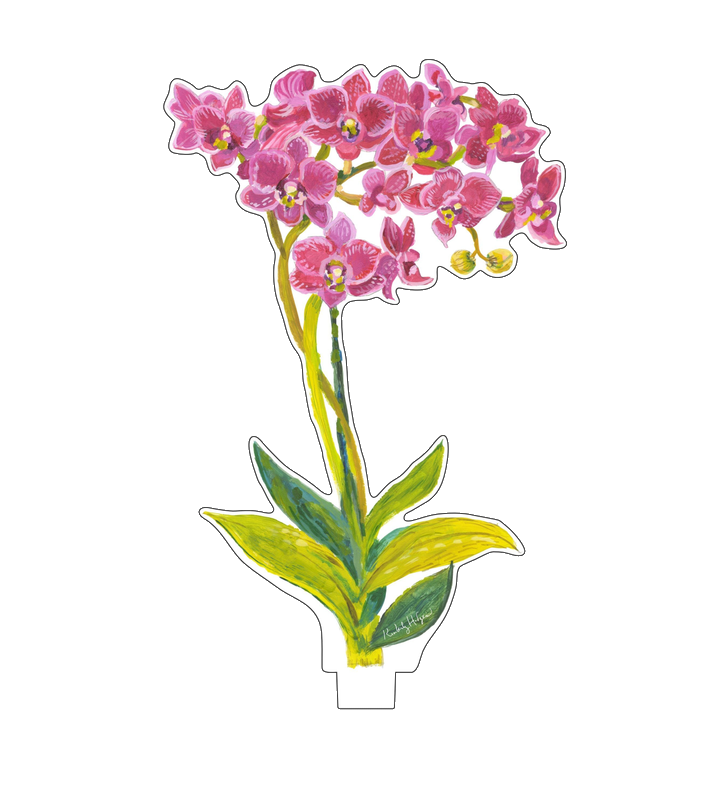
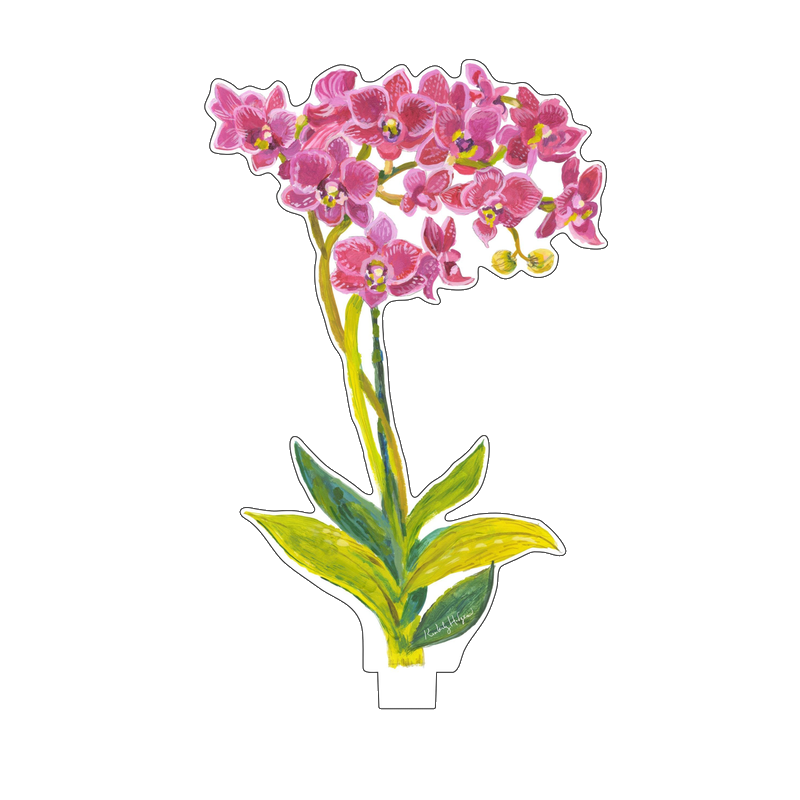
feat: add 9 animals from KHA Animals collection
Bluebird of Happiness, Spring Cardinal, Hummingbird, Indigo Bunting
with Clover, Running Rabbit, Chickadee and Forget Me Nots, Purple
Poppy Mallow Warbler, Chipping Sparrow with Daffodils, and Robin and
Nasturtiums — all with LG/SM variants, proper dimensions, and Shopify
variant IDs. Adds new "Animals" category filter. Re-normalized 7
existing flower images via the processing pipeline.

Changed region(s): [[0.2145, 0.0625, 0.7967, 0.875]]

diff --git a/src/data/catalog.ts b/src/data/catalog.ts
@@ -666,6 +666,133 @@ export const flowers: FlowerProduct[] = [
       cutout: `${CDN}/Cardinal_with_Pine_Cones_LG_KHA-210_e2143269-79e9-44f9-8bdf-7306604e50db.jpg`,
     },
   },
+  // Animals collection
+  {
+    id: "bluebird-of-happiness",
+    name: "Bluebird of Happiness",
+    category: "animal",
+    variants: {
+      lg: { variantId: "52858356728115", price: 37.35 },
+      sm: { variantId: "52858356760883", price: 19.35 },
+    },
+    dimensions: { height: 8.0, width: 4.5 },
+    images: {
+      thumbnail: `${CDN}/KHA-539_Bluebird_of_Happiness_SM.jpg`,
+      cutout: `${CDN}/KHA-539_Bluebird_of_Happiness_SM_3fd11dec-7d6b-4d2c-9740-b0832e3fb798.jpg`,
+    },
+  },
+  {
+    id: "spring-cardinal",
+    name: "Spring Cardinal",
+    category: "animal",
+    variants: {
+      lg: { variantId: "52858356990259", price: 37.35 },
+      sm: { variantId: "52858356957491", price: 19.35 },
+    },
+    dimensions: { height: 8.0, width: 5.75 },
+    images: {
+      thumbnail: `${CDN}/KHA-541_Spring_Cardinal_SM.jpg`,
+      cutout: `${CDN}/KHA-541_Spring_Cardinal_SM_c4d0f76e-863f-4031-8bbe-77e8faa532bf.jpg`,
+    },
+  },
+  {
+    id: "hummingbird",
+    name: "Hummingbird",
+    category: "animal",
+    variants: {
+      lg: { variantId: "52858376585523", price: 37.35 },
+      sm: { variantId: "52858376618291", price: 19.35 },
+    },
+    dimensions: { height: 6.5, width: 8.0 },
+    images: {
+      thumbnail: `${CDN}/KHA-604_Hummingbird_SM.jpg`,
+      cutout: `${CDN}/KHA-605_Hummingbird_LG_e45e6ebe-3cfd-4003-9f15-08503f90f482.jpg`,
+    },
+  },
+  {
+    id: "indigo-bunting-with-clover",
+    name: "Indigo Bunting with Clover",
+    category: "animal",
+    variants: {
+      lg: { variantId: "52858357252403", price: 37.35 },
+      sm: { variantId: "52858357285171", price: 19.35 },
+    },
+    dimensions: { height: 8.0, width: 3.75 },
+    images: {
+      thumbnail: `${CDN}/KHA-535_Indigo_Bunting_with_Clover_SM.jpg`,
+      cutout: `${CDN}/KHA-535_Indigo_Bunting_with_Clover_SM_c18ddb1b-1501-43c6-9e34-8185a7e8b685.jpg`,
+    },
+  },
+  {
+    id: "running-rabbit",
+    name: "Running Rabbit",
+    category: "animal",
+    variants: {
+      lg: { variantId: "52858370326835", price: 37.35 },
+      sm: { variantId: "52858370359603", price: 19.35 },
+    },
+    dimensions: { height: 14.0, width: 7.0 },
+    images: {
+      thumbnail: `${CDN}/KHA-596_Running_Rabbit_SM.jpg`,
+      cutout: `${CDN}/KHA-597_Running_Rabbit_LG_0e71fe30-1098-40c6-83bf-5d325ebaa48c.jpg`,
+    },
+  },
+  {
+    id: "chickadee-and-forget-me-nots",
+    name: "Chickadee and Forget Me Nots",
+    category: "animal",
+    variants: {
+      lg: { variantId: "52858356597043", price: 37.35 },
+      sm: { variantId: "52858356629811", price: 19.35 },
+    },
+    dimensions: { height: 7.25, width: 6.75 },
+    images: {
+      thumbnail: `${CDN}/KHA-542_Chicakadee_and_Forget_me_Nots_SM.jpg`,
+      cutout: `${CDN}/KHA-542_Chicakadee_and_Forget_me_Nots_SM_c28bd420-0cd0-44b8-96dd-53f24ac94f72.jpg`,
+    },
+  },
+  {
+    id: "purple-poppy-mallow-warbler",
+    name: "Purple Poppy Mallow Warbler",
+    category: "animal",
+    variants: {
+      lg: { variantId: "52858357121331", price: 37.35 },
+      sm: { variantId: "52858357154099", price: 19.35 },
+    },
+    dimensions: { height: 8.0, width: 7.25 },
+    images: {
+      thumbnail: `${CDN}/KHA-537_Purple_Poppy_Mallow_Warbler_SM.jpg`,
+      cutout: `${CDN}/KHA-537_Purple_Poppy_Mallow_Warbler_SM_f57722dc-617a-4acc-8e37-8a5a483a29a7.jpg`,
+    },
+  },
+  {
+    id: "chipping-sparrow-with-daffodils",
+    name: "Chipping Sparrow with Daffodils",
+    category: "animal",
+    variants: {
+      lg: { variantId: "52858355876147", price: 37.35 },
+      sm: { variantId: "52858355908915", price: 19.35 },
+    },
+    dimensions: { height: 8.0, width: 5.75 },
+    images: {
+      thumbnail: `${CDN}/KHA-546_Chipping_Sparrow_with_Daffodils_SM.jpg`,
+      cutout: `${CDN}/KHA-546_Chipping_Sparrow_with_Daffodils_SM_40b738d9-b4a7-4c73-952c-6cb069a73703.jpg`,
+    },
+  },
+  {
+    id: "robin-and-nasturtiums",
+    name: "Robin and Nasturtiums",
+    category: "animal",
+    variants: {
+      lg: { variantId: "52858356171059", price: 37.35 },
+      sm: { variantId: "52858356203827", price: 19.35 },
+    },
+    dimensions: { height: 14.0, width: 7.0 },
+    images: {
+      thumbnail: `${CDN}/KHA-544_Robin_and_Nasturtiums_SM.jpg`,
+      cutout: `${CDN}/KHA-544_Robin_and_Nasturtiums_SM_8e98aba4-574b-4cd6-a8f0-774112262bde.jpg`,
+    },
+  },
 ];
 
 export const stands: StandProduct[] = [
@@ -736,7 +863,7 @@ export const stands: StandProduct[] = [
 ];
 
 export const categoryLabels: Record<string, string> = {
-  all: "All Flowers",
+  all: "All",
   peony: "Peonies",
   dahlia: "Dahlias",
   zinnia: "Zinnias",
@@ -746,5 +873,6 @@ export const categoryLabels: Record<string, string> = {
   blossom: "Blossoms",
   amaryllis: "Amaryllis",
   holiday: "Holiday",
+  animal: "Animals",
   other: "Other",
 };

diff --git a/src/types/product.ts b/src/types/product.ts
@@ -8,6 +8,7 @@ export type FlowerCategory =
   | "blossom"
   | "amaryllis"
   | "holiday"
+  | "animal"
   | "other";
 
 export interface FlowerProduct {
